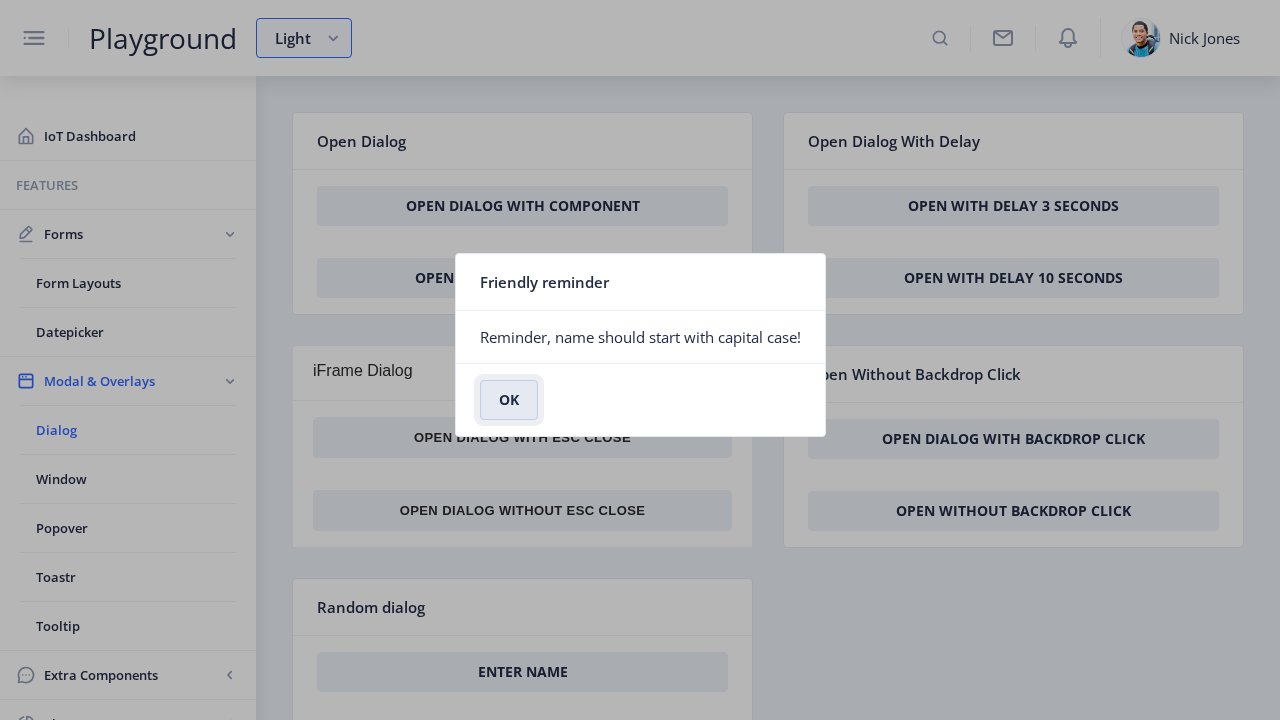
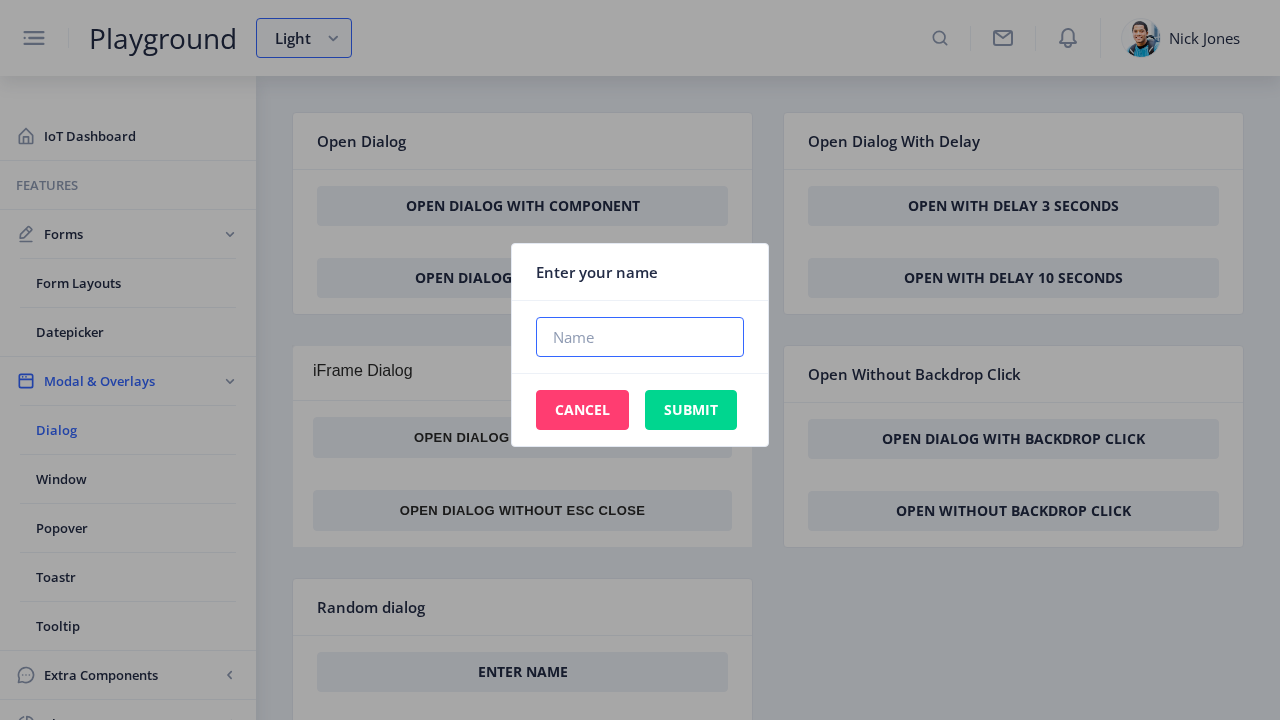
Adding more code

Changed region(s): [[0.3438, 0.3361, 0.6562, 0.6417]]

diff --git a/tests/firstTest.spec.ts b/tests/firstTest.spec.ts
@@ -1,7 +1,112 @@
-import{test} from '@playwright/test'
+import{test,expect} from '@playwright/test'
 
-test('', async({page}) =>{
-   await  page.goto('');
+test('Clicking at Multiple Windows', async({page,context}) =>{
+   await  page.goto('https://the-internet.herokuapp.com/');
+   await page.getByRole('link',{name:"Multiple Windows"}).click()
+
+   await expect(page.getByRole('heading',{name:"Opening a new window"})).toBeVisible()
+   const pagePromise  = context.waitForEvent('page')
+  await page.getByRole('link',{name:"Click Here"}).click()
+ 
+ //const firstTab = pages[0]
+ const secondTab = await pagePromise
+await  expect(secondTab.getByRole('heading',{name:"New Window"})).toBeVisible()
+ await page.bringToFront()
+  await expect(page.getByRole('heading',{name:"Opening a new window"})).toBeVisible()
 
 
+});
+
+test('JavaScript Alerts',async({page}) => {
+   await page.goto('https://the-internet.herokuapp.com/')
+   await page.getByRole('link',{name:"JavaScript Alerts"}).click()
+   await page.pause()
+   page.once('dialog', async dialog =>{
+   expect(dialog.type()).toBe('alert')
+   expect(dialog.message()).toBe('I am a JS Alert')
+   dialog.accept()
+})
+   await page.getByRole('button',{name:"Click for JS Alert"}).click()
+   await expect(page.locator('#result')).toHaveText('You successfully clicked an alert')
+
+   //Handle Confirm(Dismiss)
+   page.once('dialog', async dialog =>{
+   expect(dialog.type()).toBe('confirm')
+   await dialog.dismiss()
+
+   })
+   await page.getByRole('button',{name:"Click for JS Confirm"}).click()
+   await expect(page.locator('#result')).toHaveText('You clicked: Cancel')
+
+   //Handle Prompt
+
+   page.once('dialog', async dialog =>{
+   expect(dialog.type()).toBe('prompt')
+   await dialog.accept('Playwright')
+
+   })
+   await page.getByRole('button',{name:"Click for JS Prompt"}).click()
+   await expect(page.locator('#result')).toHaveText('You entered: Playwright')
+
+})
+
+
+test('Drag And Drop',async({page})=> {
+
+   await page.goto('https://the-internet.herokuapp.com/')
+   await page.getByRole('link',{name:"Drag and Drop"}).click()
+   expect(page.getByRole('heading',{name:"Drag and Drop"})).toContainText('Drag and Drop')
+   const dragSource = page.locator('#column-a')
+   const dragTarget = page.locator('#column-b')
+   await dragSource.dragTo(dragTarget)
+   const header = page.getByRole('heading',{name:"B"})
+   
+
+   await page.goto('https://jqueryui.com/droppable/')
+   const iframeDrop = page.frameLocator('.demo-frame')
+   const draggable = iframeDrop.locator('#draggable')
+   const droppable = iframeDrop.locator('#droppable')
+    await draggable.dragTo(droppable)
+    const confirmtext = draggable.locator('//p[contains(text(), "Drag me to my target")]')
+    await expect(confirmtext).toContainText('Drag me to my target')
+
+   // await page.goto('https://jqueryui.com/droppable/#accepted-elements');
+  await page.getByRole('link',{name:"Accept"}).click()
+  // Switch to the jQuery UI demo iframe
+ // const frame = page.frameLocator('.demo-frame');
+
+  // Click on the "Accept" example tab if needed, or navigate directly
+  const nonValidDraggable = iframeDrop.locator('#draggable-nonvalid');
+  const droppable1 = iframeDrop.locator('#droppable');
+
+  // Attempting to drag the non-valid item
+  await nonValidDraggable.dragTo(droppable1);
+
+  // The droppable box should STILL retain its original text, NOT change to "Dropped!"
+  await expect(droppable1.locator('p')).toHaveText("accept: '#draggable'");
+
+})
+
+test('Resizable box',async({page})=>{
+   await page.goto('https://jqueryui.com/resizable/')
+  const  frameLocator1 = page.frameLocator('.demo-frame')
+  const  resizableBox = frameLocator1.locator('#resizable')
+  const  resizableHaandle = frameLocator1.locator('.ui-resizable-se')
+  const initialBox = await resizableBox.boundingBox()
+  console.log(initialBox)
+  const handleBox = await resizableHaandle.boundingBox()
+  console.log(handleBox)
+
+  if(handleBox && initialBox){
+   const startX = handleBox.x + handleBox.width / 2
+   const startY = handleBox.y + handleBox.height /2
+
+   await page.mouse.move(startX, startY)
+   await page.mouse.down()
+   await page.mouse.move(startX + 150, startY + 100)
+   await page.mouse.up()
+  }
+  const finalBox = await resizableBox.boundingBox();
+  expect(finalBox?.width).toBeGreaterThan(initialBox!.width);
+  expect(finalBox?.height).toBeGreaterThan(initialBox!.height);
 });

diff --git a/playwright.config.ts b/playwright.config.ts
@@ -26,14 +26,15 @@ export default defineConfig({
   /* Opt out of parallel tests on CI. */
   workers: process.env.CI ? 2 : undefined as any,
   /* Reporter to use. See https://playwright.dev/docs/test-reporters */
-  reporter: 'html',
+  reporter: [['html',{ outputFolder: 'playwright-report' }],['github']],
   /* Shared settings for all the projects below. See https://playwright.dev/docs/api/class-testoptions. */
   use: {
+     
     /* Base URL to use in actions like `await page.goto('')`. */
     // baseURL: 'http://localhost:3000',
 
     /* Collect trace when retrying the failed test. See https://playwright.dev/docs/trace-viewer */
-    trace: 'on',
+    trace: 'retain-on-failure',
   },
 
   /* Configure projects for major browsers */
